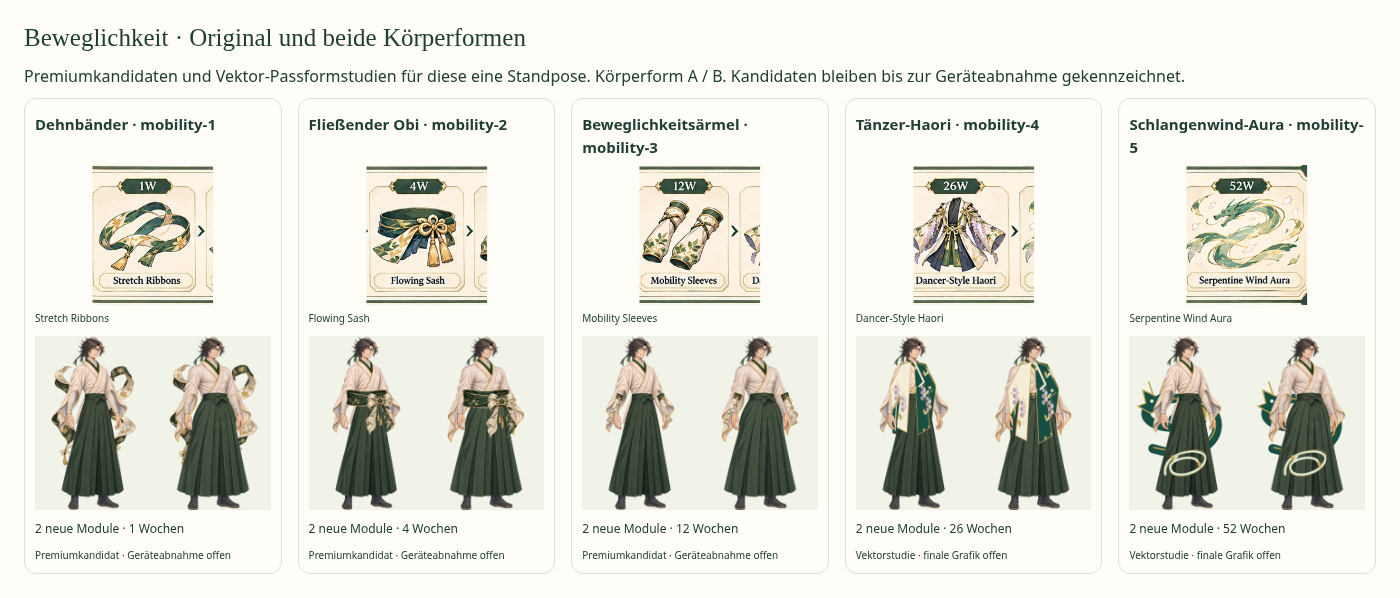
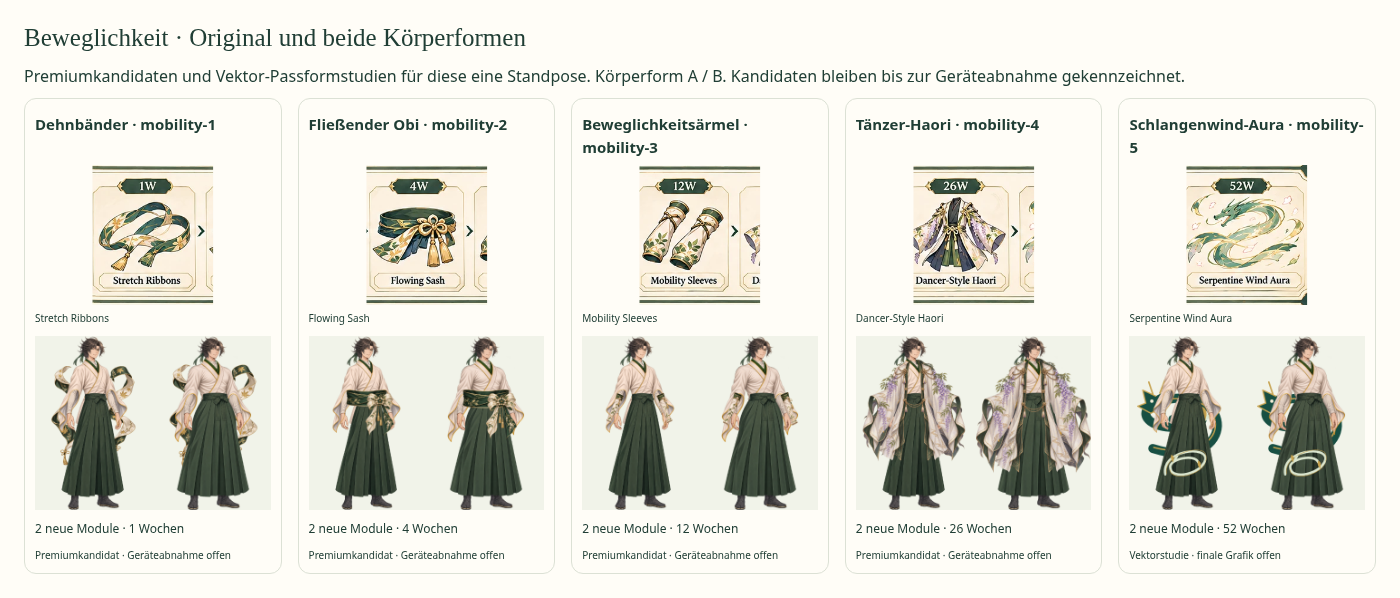
Add premium Dancer Haori candidate

Changed region(s): [[0.6143, 0.602, 0.7986, 0.7826], [0.6143, 0.903, 0.7371, 0.9331]]

diff --git a/docs/STATUS.md b/docs/STATUS.md
@@ -6,7 +6,7 @@ Datum: 03.11.2026. Verbindliche Produktquelle: PRODUCT_SPEC.md und vollständige
 
 - **Live: KONPASU 2.4.1 / `konpasu-offline-v241`**, Main-Merge `ee160643515cf89dbc5c1bde38245ea3210052e2` aus PR #12. Pages-Lauf [41648613896](https://github.com/Rowlandolo/KONPASU/actions/runs/41648613896) erfolgreich. `version.json`, HTML, Service Worker, Historienmodul, Artbook-Hauptmodul und Erscheinungsspeicher öffentlich mit HTTP 200 und exakt lokalen SHA-256 bestätigt. Echte iPhone-/VoiceOver-/Alt-PWA-Abnahme bleibt offen.
 - Aktuelle Entwicklung: Startset in Entwurfs-PR [#3](https://github.com/Rowlandolo/KONPASU/pull/3); vollständiger Prototypkatalog in `feature/artbook-89-prototypes`, darauf aufbauender Entwurfs-PR [#4](https://github.com/Rowlandolo/KONPASU/pull/4); reiner Outfit-Leseadapter in darauf aufbauendem Entwurfs-PR [#5](https://github.com/Rowlandolo/KONPASU/pull/5); Mehrfachoutfit im Sitzungsspeicher in Entwurfs-PR [#6](https://github.com/Rowlandolo/KONPASU/pull/6); additiver Speichervertrag mit Rückweg in Entwurfs-PR [#7](https://github.com/Rowlandolo/KONPASU/pull/7). sichtbarer Mehrfacheditor in darauf aufbauendem Entwurfs-PR [#8](https://github.com/Rowlandolo/KONPASU/pull/8); gespeicherte Mehrfachausrüstung auf dem persönlichen Hauptavatar in darauf aufbauendem Entwurfs-PR [#9](https://github.com/Rowlandolo/KONPASU/pull/9). Persönliche Artbook-Anprobe in darauf aufbauendem Entwurfs-PR [#10](https://github.com/Rowlandolo/KONPASU/pull/10). Persönliche Speicherung mit Rücknahme und Artbook-Hauptansicht in Entwurfs-PR [#11](https://github.com/Rowlandolo/KONPASU/pull/11) auf #10. Entwicklungskandidat 2.4.1-preview.5 mit eigenem Cache und ausdrücklich gespeicherten additiven Feldern; kein Merge/Deployment und keine Änderung persönlicher Daten.
-- Aktueller Avatar: zwei unabhängig gezeichnete Standfiguren, sieben Basiswahlen/acht Flächen, sechs PNG-Prototypartikel/zwölf Ausrüstungsfragmente. Zusätzlich alle übrigen 89 Artikel mit 134 Modulen im Katalog; die abgenommenen Serien Cardio und Schritte sowie `mobility-1` bis `mobility-3` besitzen Premiumkandidaten mit insgesamt siebenundzwanzig getrennten Modulen, 76 Artikel bleiben Vektorstudien. 95/95 bleiben kombinierbar.
+- Aktueller Avatar: zwei unabhängig gezeichnete Standfiguren, sieben Basiswahlen/acht Flächen, sechs PNG-Prototypartikel/zwölf Ausrüstungsfragmente. Zusätzlich alle übrigen 89 Artikel mit 134 Modulen im Katalog; die abgenommenen Serien Cardio und Schritte sowie `mobility-1` bis `mobility-4` besitzen Premiumkandidaten mit insgesamt neunundzwanzig getrennten Modulen, 75 Artikel bleiben Vektorstudien. 95/95 bleiben kombinierbar.
 - 280 Regressionen, bestehende App-/Atelier-Chromiumprüfung (26 Gruppen) und 13 neue Kataloggruppen erfolgreich für c4dcdff69d4c2536f2e11c1993dd7cbd7c46a9ca. [Katalognachweis](https://github.com/Rowlandolo/KONPASU/actions/runs/41591939844); 190 sichtbare Einzelrenderings, 4.465 reine Paarplanungen je Körper und 19 gesichtete Familienbilder. Vollbeleg verification-catalog-v10.json.
 - Etappen 1 und 2 technisch für das Startset abgeschlossen: 819,188 Bytes Startgrafiken, 1,155,204 Bytes insgesamt, 47.84 MiB rechnerisches Quell-RGBA; 24 WebPs plus Manifest bytegleich reproduziert. Original-/Mobilevergleich beider Formen und 390 px/3× bestanden und gesichtet. Physische Telefon-/GPU-/Peakabnahme bleibt Etappe 5 vor Veröffentlichung.
 - **Etappe 3 technisch abgeschlossen:** 3.1 Leseadapter, 3.2 Mehrfachentwurf, 3.3 Speicherbackend und 3.4 Editor-/Hauptavatarintegration einschließlich persönlicher Artbook-Varianten, ausdrücklicher Speicherung/Rücknahme und vollständiger automatischer Schnappschüsse für alle neuen Avataraktionen. 445 Regressionen sowie 10 App-, 26 Atelier-, 12 Editor-, 13 Speicher-, 12 SVG-Hauptavatar-, 11 Varianten- und 15 Artbook-/Historien-Browsergruppen erfolgreich für `0749e4527c6fd1a847f373af0476dc0c42f13cd6`. Alle 95 Artikel sind prototypisiert und kombinierbar; die finale Premiumausarbeitung der 89 Vektorartikel bleibt Etappe 4. Kein allgemeines Fertigversprechen für die gesamte App.

diff --git a/docs/QA_CHECKLIST.md b/docs/QA_CHECKLIST.md
@@ -404,6 +404,16 @@ Kandidat **2.4.1-preview.1** hat einen getrennten Cache `konpasu-offline-v241-ou
 - [x] 95-Artikel-Stressauswahl, Warm-Offline-Katalog und speicherfreie Vorschau bleiben erfolgreich.
 - [ ] Physische iPhone-/Android-, VoiceOver-, GPU-/Speicher- und kalte PWA-/Upgrade-Abnahme.
 
+## Etappe 4 · Paket 4.14
+
+- [x] Vorder- und Rückebene des Tänzer-Haori sind getrennte, hashgebundene transparente PNG-Module.
+- [x] Körperform A/B, offenes Zentrum, Hals, Ärmelöffnungen und sichtbare Pixeländerung geprüft.
+- [x] Vorderflächenmaskierung verdeckt nur tatsächliche Armflächen und erhält alle ausgewählten Artikel.
+- [x] Die ersten vier Beweglichkeitsartikel bleiben gemeinsam als acht Module sichtbar.
+- [x] Cardio, Schritte und die ersten vier Beweglichkeitsartikel bleiben gemeinsam als 29 Module erhalten.
+- [x] 95-Artikel-Stressauswahl, Warm-Offline-Katalog und speicherfreie Vorschau bleiben erfolgreich.
+- [ ] Physische iPhone-/Android-, VoiceOver-, GPU-/Speicher- und kalte PWA-/Upgrade-Abnahme.
+
 ## Abschluss Etappe 3.4.1: sichtbarer Editor mit Speichern, Konflikt und Rücknahme
 
 Entwurfs-PR [#8](https://github.com/Rowlandolo/KONPASU/pull/8) auf #7 ergänzt den tatsächlichen Einstieg **Avatar → Outfits → Mehrfachoutfit bearbeiten**. Native Dialogbedienung mit Artbook-Anprobe, Artikelwahl/Suche, unabhängiger Sichtbarkeit/Reihenfolge, Körperform, Undo/Redo/Reset und ausdrücklichem Speichern. Separate dauerhafte Rücknahme ist bei ungespeicherten Entwurfsänderungen gesperrt. Schließen behält den Entwurf in der laufenden App. Vorhandene Ausrüstung, Favoriten, History, Ziele/Trainings und übrige Daten bleiben erhalten.

diff --git a/docs/ROADMAP.md b/docs/ROADMAP.md
@@ -51,7 +51,9 @@ Etappe **3.4.3b technisch abgeschlossen** in Entwurfs-PR [#11](https://github.co
 
 **Paket 4.13 umgesetzt:** `mobility-3` (Beweglichkeitsärmel) besitzt getrennte asymmetrische Unterarmmodule mit eigenen Passformen und bestehender Kimono-/Außenkleidungsmaskierung. Die ersten drei Beweglichkeitsartikel bestehen als sechs Module; gemeinsam mit Cardio und Schritte bleiben 27 Module erhalten.
 
-**Als Nächstes:** Paket 4.14 mit `mobility-4` (Tänzer-Haori). App-/Offlineintegration und physische Gerätefreigabe bleiben spätere eigene Gates.
+**Paket 4.14 umgesetzt:** `mobility-4` (Tänzer-Haori) besitzt getrennte Vorder-/Rückebenen mit offenem Zentrum, weiten Ärmelöffnungen, Schulterknoten und Glyzinien. Die ersten vier Beweglichkeitsartikel bestehen als acht Module; gemeinsam mit Cardio und Schritte bleiben 29 Module erhalten.
+
+**Als Nächstes:** Paket 4.15 mit `mobility-5` (Schlangenwind-Aura), danach die vollständige Beweglichkeits-Familienabnahme. App-/Offlineintegration und physische Gerätefreigabe bleiben spätere eigene Gates.
 
 Die App bleibt offline nutzbar. Reales iPhone/Alt-PWA-Upgrade und historische Zielkonfigurationen bleiben eigenständige Prüfpunkte. Der spätere Copilot baut auf einer gemeinsamen, getesteten Aktionsengine mit Undo auf; Details in PROFESSIONAL_APP_PLAN.md.
 

diff --git a/docs/AVATAR_PREMIUM_STAGE4.md b/docs/AVATAR_PREMIUM_STAGE4.md
@@ -79,3 +79,7 @@ Alle fünf Schritte-Kandidaten bestehen Einzelrendering, gemeinsame Neun-Modul-K
 ## Paket 4.13 · Beweglichkeitsärmel (`mobility-3`)
 
 `mobility-3-left.png` und `mobility-3-right.png` sind getrennte, asymmetrische Unterarmärmel aus elfenbeinfarbener Seide mit waldgrünen Manschetten, Goldkanten, Blütenschließen, Kordeln, Quasten und individuellen Blattzweigen. Beide folgen den vorhandenen Unterarmankern mit eigenen Passformen für Körperform A und B. Die bestehende Armmaske lässt Hände frei und verdeckt die Ärmel ausschließlich unter tatsächlichen Kimono- oder Außenkleidungsflächen.
+
+## Paket 4.14 · Tänzer-Haori (`mobility-4`)
+
+`mobility-4-rear.png` enthält das dunkelgrün-anthrazitfarbene Futter, offene Rückenbahnen, Goldlinien und seitlich fließende Glyzinien hinter der Figur. `mobility-4-front.png` bildet die elfenbeinfarbene Außenlage mit sehr weiten Ärmeln, offenen Lapellen, Schulterknoten, Goldkordel und violetten Glyzinien. Hals, Körpermitte, Ärmelöffnungen und untere Mitte bleiben transparent. Beide Ebenen besitzen eigene Passformen für Körperform A und B; nur tatsächliche Vorderflächen maskieren Armartikel.

diff --git a/docs/KNOWN_ISSUES.md b/docs/KNOWN_ISSUES.md
@@ -253,4 +253,4 @@ Technische Etappe 3 abgeschlossen für `0749e4527c6fd1a847f373af0476dc0c42f13cd6
 
 ## Etappe 4 · Stand nach Paket 4.11
 
-`mobility-1` bis `mobility-3` besitzen je zwei hashgebundene Premiumkandidaten. Die drei Artikel bestehen gemeinsam als sechs Module sowie im 27-Modul-Übergangsrendering auf beiden registrierten Körperformen. 76 Katalogartikel bleiben Vektorstudien. Die Abnahme gilt für die feste Standpose im Entwicklungsatelier; App-/Offlineintegration der Premiumdateien, physische Geräte, VoiceOver, GPU-/Speicherspitzen und kaltes Alt-PWA-Upgrade bleiben offen.
+`mobility-1` bis `mobility-4` besitzen je zwei hashgebundene Premiumkandidaten. Die vier Artikel bestehen gemeinsam als acht Module sowie im 29-Modul-Übergangsrendering auf beiden registrierten Körperformen. 75 Katalogartikel bleiben Vektorstudien. Die Abnahme gilt für die feste Standpose im Entwicklungsatelier; App-/Offlineintegration der Premiumdateien, physische Geräte, VoiceOver, GPU-/Speicherspitzen und kaltes Alt-PWA-Upgrade bleiben offen.

diff --git a/docs/ARTBOOK_95_PROTOTYPES.md b/docs/ARTBOOK_95_PROTOTYPES.md
@@ -333,7 +333,7 @@ Prototyp: vector-fit-prototype. Eigene Vorder-/Hinterteile; Frontstoff verdeckt 
 
 Gemeinsame Auswahl bleibt erhalten. Deckende gleiche Flächen dürfen sich natürlich verdecken; Einzel-Sichtbarkeit und Reihenfolge sind unabhängig von Besitz. Keine Slotverdrängung.
 
-Offen: Premiumzeichnung statt Vektorstudie; Individuelle finale Detailpassform; App-/Offlineintegration; Physische Geräteabnahme.
+Offen: App-/Offlineintegration; Physische Geräteabnahme.
 
 ### mobility-5 · Schlangenwind-Aura
 
